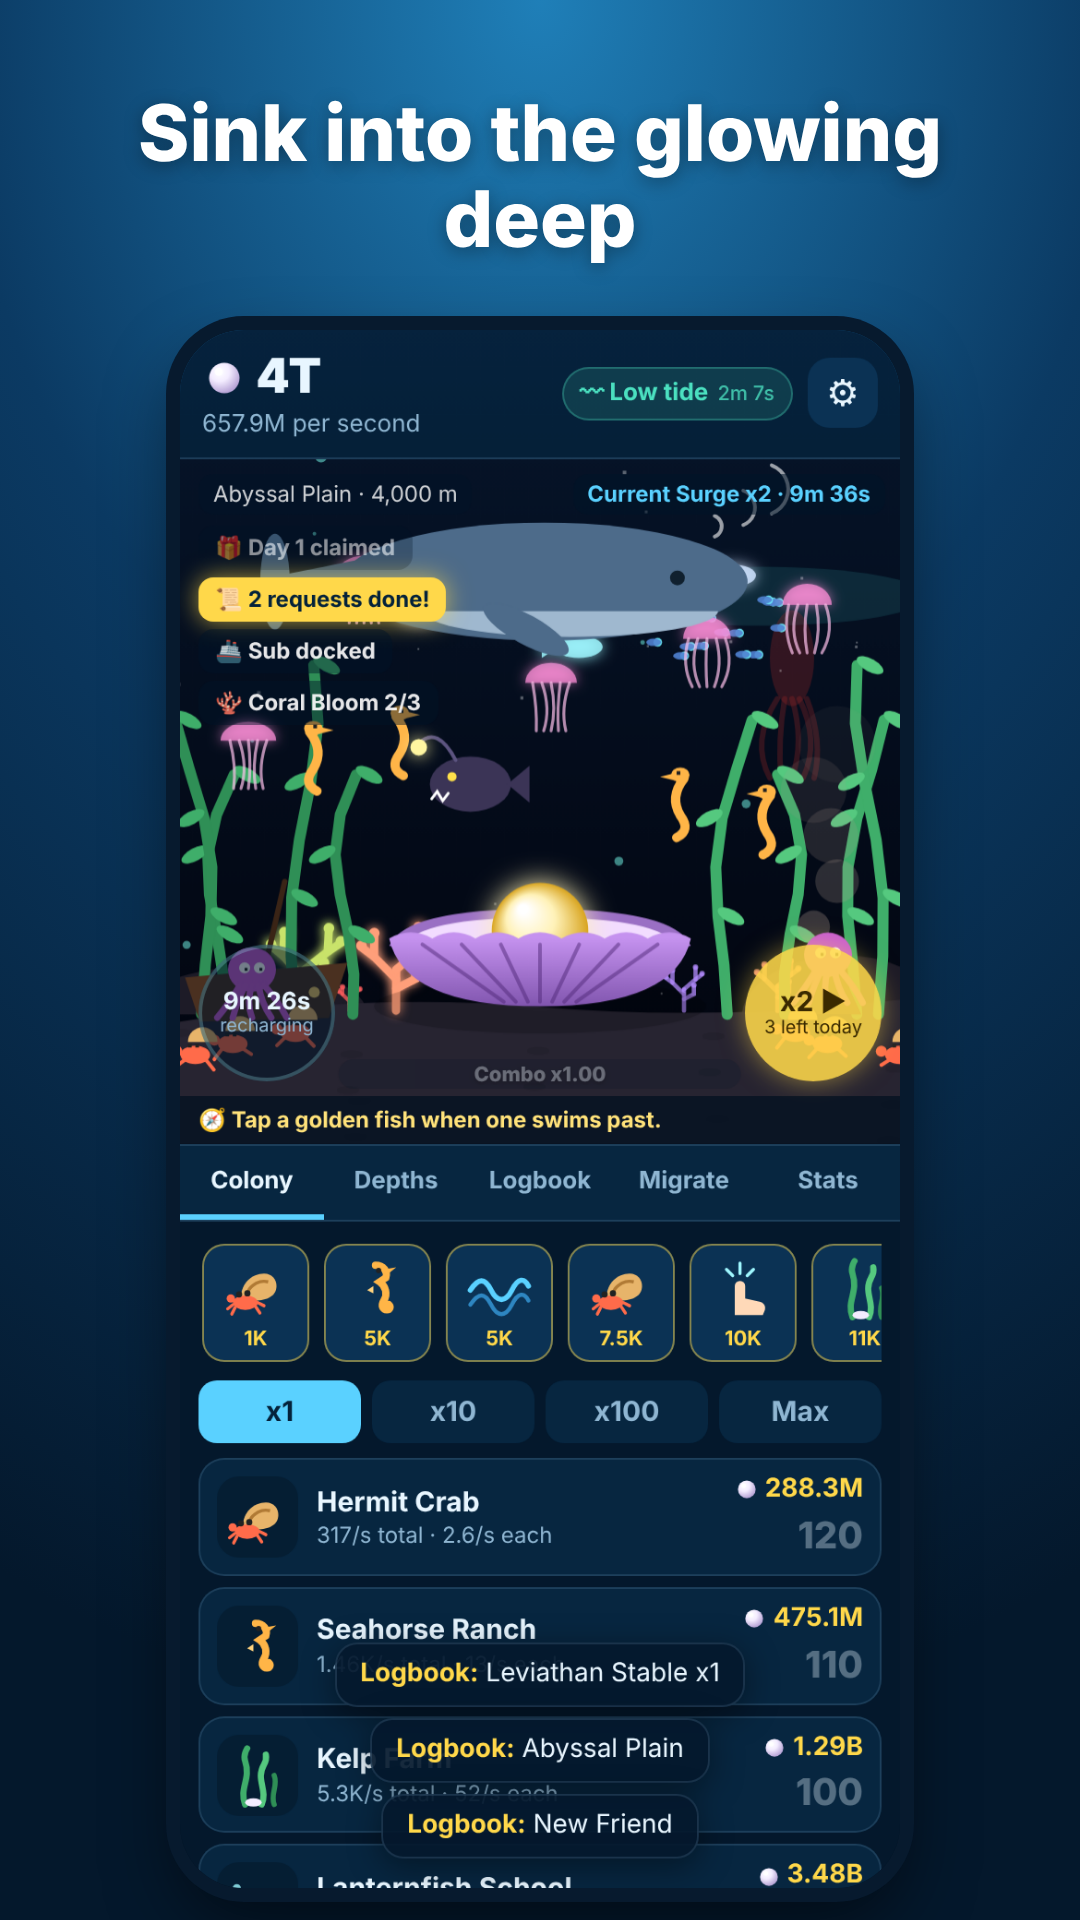
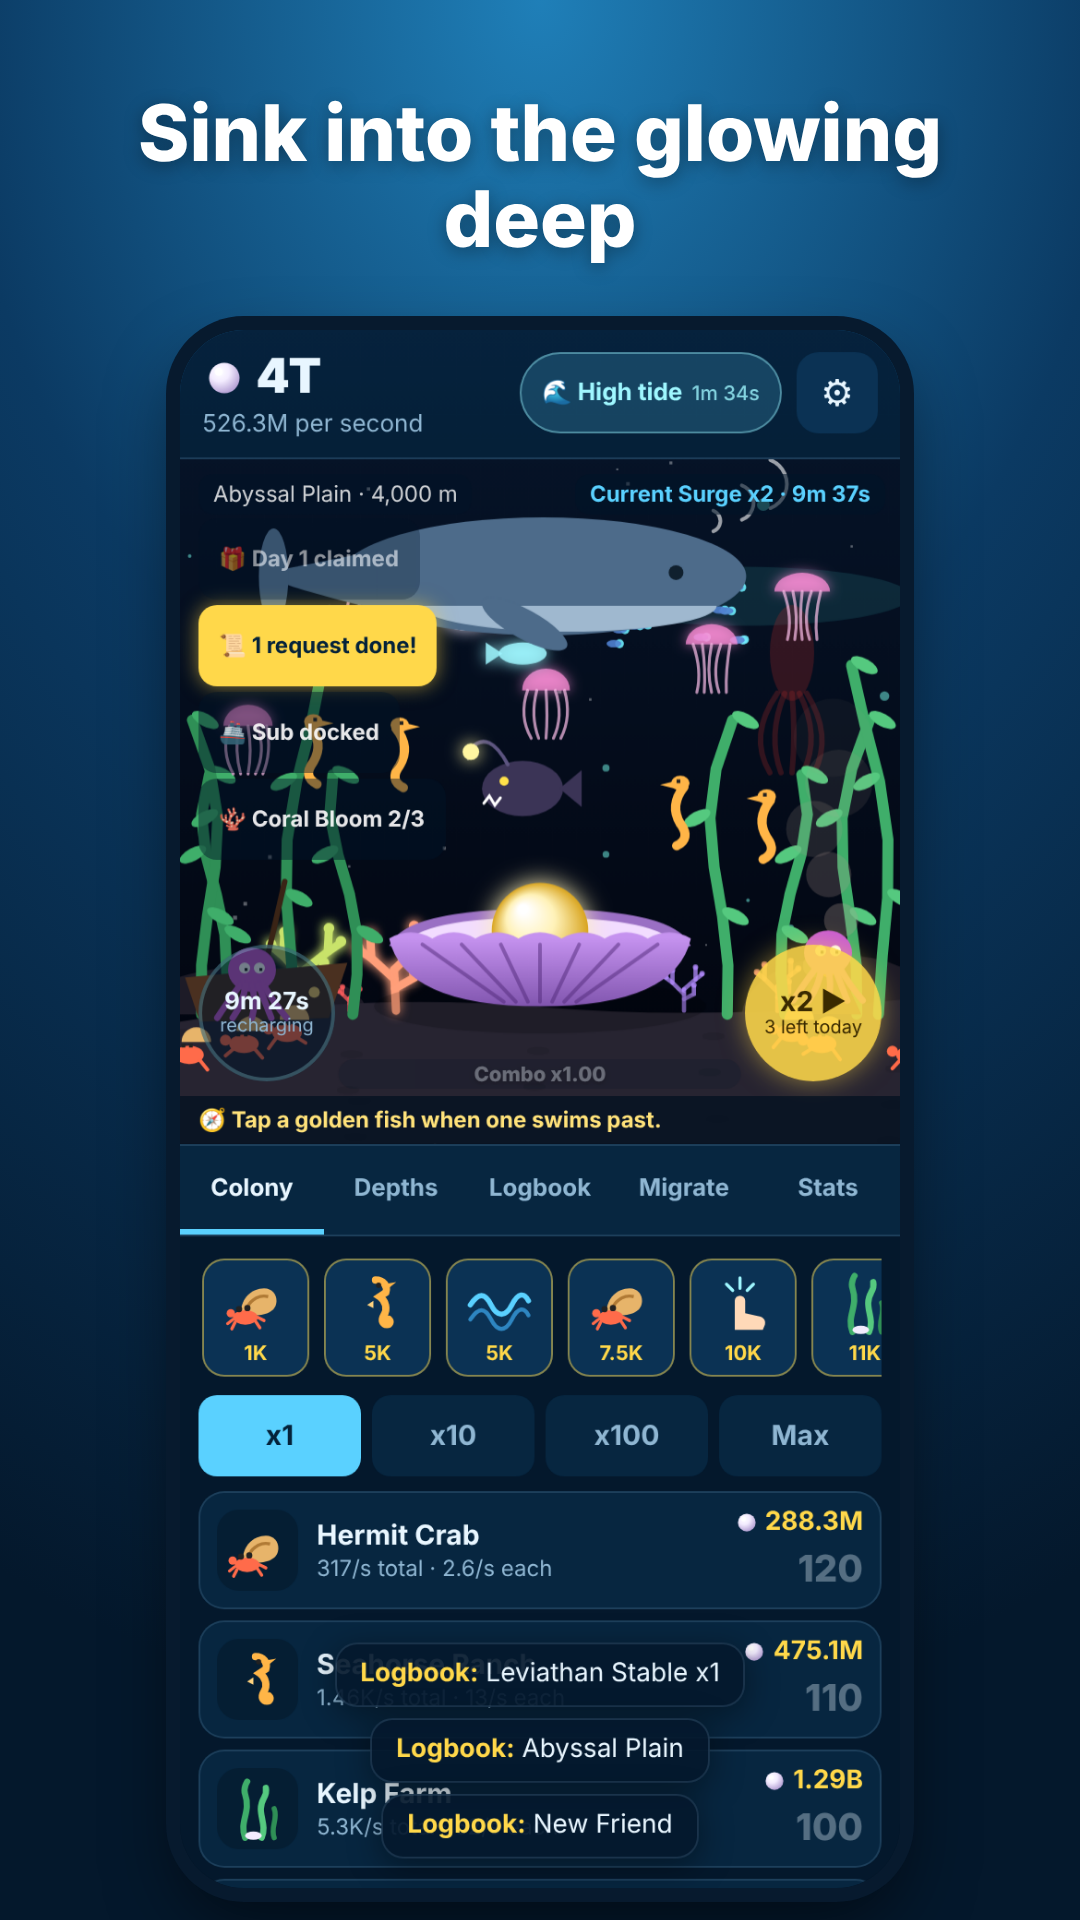
Fathom: tap target pass and small-screen layout audit
Claude-Session: https://claude.ai/code/session_01X25pDiwaU5FyRJ8RMUXnpT

diff --git a/deep-sea/www/styles.css b/deep-sea/www/styles.css
@@ -28,19 +28,22 @@ svg { display: block; width: 100%; height: 100%; }
 .pearls { display: flex; align-items: center; gap: 6px; font-size: 26px; font-weight: 800; font-variant-numeric: tabular-nums; }
 .pearls .ico { width: 24px; height: 24px; flex: none; }
 .pps { color: var(--muted); font-size: 13px; }
-.chip { padding: 6px 10px; border-radius: 999px; font-size: 13px; font-weight: 700; white-space: nowrap; }
+.chip { min-height: 44px; padding: 6px 12px; border-radius: 999px; font-size: 13px; font-weight: 700; white-space: nowrap; }
 .chip small { font-weight: 500; opacity: 0.8; margin-left: 2px; }
 .chip.high { background: rgba(90, 209, 255, 0.2); color: #9ff7ff; box-shadow: inset 0 0 0 1px rgba(159, 247, 255, 0.4); }
 .chip.low { background: rgba(75, 224, 192, 0.14); color: var(--good); box-shadow: inset 0 0 0 1px rgba(75, 224, 192, 0.3); }
-.icon-btn { width: 38px; height: 38px; border-radius: 12px; background: var(--panel-2); font-size: 20px; }
+.icon-btn { width: 44px; height: 44px; border-radius: 12px; background: var(--panel-2); font-size: 20px; }
 
 #stage { position: relative; flex: 0 0 44%; min-height: 250px; overflow: hidden; }
 #scene { width: 100%; height: 100%; display: block; touch-action: none; }
 #depth-tag { position: absolute; left: 10px; top: 8px; font-size: 12px; color: rgba(255, 255, 255, 0.8); background: rgba(0, 20, 40, 0.35); padding: 3px 8px; border-radius: 8px; pointer-events: none; }
-#gift { position: absolute; left: 10px; top: 36px; font-size: 12px; font-weight: 700; color: rgba(255, 255, 255, 0.9); background: rgba(0, 20, 40, 0.45); padding: 4px 9px; border-radius: 8px; }
+/* Stage chips stack in one column, each tall enough to tap. */
+#chips { position: absolute; left: 10px; top: 32px; display: flex; flex-direction: column; align-items: flex-start; gap: 3px; pointer-events: none; }
+#chips button { pointer-events: auto; min-height: 44px; display: inline-flex; align-items: center; font-size: 12px; font-weight: 700; color: rgba(255, 255, 255, 0.9); background: rgba(0, 20, 40, 0.45); padding: 4px 11px; border-radius: 10px; }
+#chips button[hidden] { display: none; }
 #gift.ready { color: #04223a; background: var(--gold); box-shadow: 0 0 14px rgba(255, 216, 74, 0.7); animation: glow 1.2s ease-in-out infinite alternate; }
 #gift.done { opacity: 0.6; }
-#requests { position: absolute; left: 10px; top: 64px; font-size: 12px; font-weight: 700; color: rgba(255, 255, 255, 0.9); background: rgba(0, 20, 40, 0.45); padding: 4px 9px; border-radius: 8px; }
+
 #requests.ready { color: #04223a; background: var(--gold); box-shadow: 0 0 14px rgba(255, 216, 74, 0.7); animation: glow 1.2s ease-in-out infinite alternate; }
 .reqs { display: flex; flex-direction: column; gap: 8px; margin: 6px 0 4px; }
 .req { display: flex; align-items: center; gap: 10px; background: rgba(255, 255, 255, 0.06); border-radius: 10px; padding: 8px 10px; }
@@ -89,7 +92,7 @@ svg { display: block; width: 100%; height: 100%; }
 #ticker { position: absolute; left: 0; right: 0; bottom: 0; padding: 5px 10px; font-size: 12px; color: rgba(232, 246, 255, 0.85); background: rgba(0, 16, 32, 0.5); white-space: nowrap; overflow: hidden; text-overflow: ellipsis; pointer-events: none; }
 
 #tabs { display: flex; background: var(--panel); border-top: 1px solid var(--line); border-bottom: 1px solid var(--line); }
-#tabs button { flex: 1; padding: 11px 2px; font-size: 13px; font-weight: 700; color: var(--muted); position: relative; }
+#tabs button { flex: 1; min-height: 48px; padding: 12px 2px; font-size: 13px; font-weight: 700; color: var(--muted); position: relative; }
 #tabs button.on { color: var(--text); box-shadow: inset 0 -3px 0 var(--accent); }
 #tabs button.locked { opacity: 0.45; }
 .dot { position: absolute; top: 7px; right: 10%; width: 8px; height: 8px; border-radius: 50%; background: var(--gold); }
@@ -108,7 +111,7 @@ h3 { margin: 18px 4px 8px; font-size: 15px; }
 .up.poor .uc { color: var(--muted); }
 
 .buyrow { display: flex; gap: 6px; margin-bottom: 8px; }
-.buyrow button { flex: 1; padding: 7px 0; border-radius: 10px; background: var(--panel); font-weight: 700; color: var(--muted); }
+.buyrow button { flex: 1; min-height: 44px; padding: 7px 0; border-radius: 10px; background: var(--panel); font-weight: 700; color: var(--muted); }
 .buyrow button.on { background: var(--accent); color: #04223a; }
 
 .gens { display: flex; flex-direction: column; gap: 6px; }
@@ -137,13 +140,13 @@ h3 { margin: 18px 4px 8px; font-size: 15px; }
 .zg { color: #bfe3ff !important; margin-top: 2px; }
 .tick { color: var(--good); font-size: 20px; font-weight: 800; padding: 0 8px; }
 
-.act { padding: 9px 14px; border-radius: 12px; background: var(--accent); color: #04223a; font-weight: 800; line-height: 1.15; text-align: center; }
+.act { min-height: 44px; padding: 9px 14px; border-radius: 12px; background: var(--accent); color: #04223a; font-weight: 800; line-height: 1.15; text-align: center; }
 .act span { font-size: 12px; }
 .act.poor { background: var(--panel-2); color: var(--muted); }
 .act.ghost { background: transparent; color: var(--muted); box-shadow: inset 0 0 0 1px var(--line); }
 .act.big { width: 100%; padding: 13px; font-size: 16px; margin-top: 10px; }
 
-.logbook { display: grid; grid-template-columns: repeat(auto-fill, minmax(40px, 1fr)); gap: 6px; }
+.logbook { display: grid; grid-template-columns: repeat(auto-fill, minmax(46px, 1fr)); gap: 6px; }
 .ach { aspect-ratio: 1; border-radius: 10px; background: var(--panel); color: var(--muted); font-size: 20px; box-shadow: inset 0 0 0 1px var(--line); }
 .ach.got { background: var(--panel-2); box-shadow: inset 0 0 0 1px rgba(255, 216, 74, 0.5); }
 
@@ -194,7 +197,7 @@ h3 { margin: 18px 4px 8px; font-size: 15px; }
 .rdot { width: 22px; height: 22px; flex: none; border-radius: 50%; background: var(--c); box-shadow: 0 0 12px var(--c); opacity: 0.35; }
 .rare.got .rdot { opacity: 1; }
 .boost.spawn { color: #ffbfdc; }
-#subchip { position: absolute; left: 10px; top: 92px; font-size: 12px; font-weight: 700; color: rgba(255, 255, 255, 0.9); background: rgba(0, 20, 40, 0.45); padding: 4px 9px; border-radius: 8px; }
+
 #subchip.ready { color: #04223a; background: var(--gold); box-shadow: 0 0 14px rgba(255, 216, 74, 0.7); animation: glow 1.2s ease-in-out infinite alternate; }
 .subcard { display: flex; flex-direction: column; gap: 6px; padding: 12px; margin-bottom: 12px; border-radius: 14px; background: var(--panel); box-shadow: inset 0 0 0 1px var(--line); }
 .subcard > b { font-size: 15px; }
@@ -235,7 +238,7 @@ h3 .muted { color: var(--muted); font-weight: 600; }
 .relics span svg.coral { display: block; margin: auto; }
 
 /* Weekly ocean event */
-#eventchip { position: absolute; left: 10px; top: 120px; font-size: 12px; font-weight: 700; color: rgba(255, 255, 255, 0.9); background: rgba(0, 20, 40, 0.45); padding: 4px 9px; border-radius: 8px; }
+
 #eventchip.ready { color: #04223a; background: var(--gold); box-shadow: 0 0 14px rgba(255, 216, 74, 0.7); animation: glow 1.2s ease-in-out infinite alternate; }
 .req.got { opacity: .6; }
 .req.got .rw { color: #7cf5c6; font-weight: 800; }
@@ -245,3 +248,11 @@ h3 .muted { color: var(--muted); font-weight: 600; }
 .away div { display: flex; align-items: center; gap: 10px; background: rgba(255, 255, 255, 0.06); border-radius: 10px; padding: 7px 10px; font-size: 14px; }
 .away span { font-size: 18px; width: 22px; text-align: center; flex: none; }
 #ticker.guide { color: #ffe27a; font-weight: 700; background: rgba(0, 16, 32, 0.7); }
+
+/* Short phones: the chip column needs the left side, so the geyser stacks above the surge button. */
+@media (max-height: 740px) {
+  .geyser, #surge { width: 60px; height: 60px; bottom: 44px; }
+  .geyser { left: auto; right: 10px; bottom: 110px; }
+  .geyser b, #surge b { font-size: 12px; }
+  .geyser small, #surge small { font-size: 9px; }
+}

diff --git a/deep-sea/src/ui/app.ts b/deep-sea/src/ui/app.ts
@@ -109,10 +109,12 @@ class App {
       <section id="stage">
         <canvas id="scene"></canvas>
         <div id="depth-tag"></div>
-        <button id="gift" class="gift" aria-label="Daily Tide Gift"></button>
-        <button id="requests" class="requests" aria-label="Reef Requests"></button>
-        <button id="subchip" class="subchip" aria-label="Submarine" hidden></button>
-        <button id="eventchip" class="eventchip" aria-label="Weekly ocean event" hidden></button>
+        <div id="chips">
+          <button id="gift" class="gift" aria-label="Daily Tide Gift"></button>
+          <button id="requests" class="requests" aria-label="Reef Requests"></button>
+          <button id="subchip" class="subchip" aria-label="Submarine" hidden></button>
+          <button id="eventchip" class="eventchip" aria-label="Weekly ocean event" hidden></button>
+        </div>
         <button id="geyser" class="geyser" aria-label="Geyser" hidden></button>
         <button id="surge" class="surge" aria-label="Current Surge" hidden></button>
         <div id="boosts"></div>
@@ -260,8 +262,6 @@ class App {
     const ev = currentEvent(s);
     ec.hidden = !ev;
     if (ev) {
-      // Sits where the sub chip would be until the submarine unlocks.
-      ec.style.top = subUnlocked(s) ? '120px' : '92px';
       const ecHtml = eventClaimable(s) ? `${ev.icon} Event reward ready!`
         : s.event.claimed >= 3 ? `${ev.icon} ${ev.name.replace(' Week', '')} done` : `${ev.icon} ${ev.name.replace(' Week', '')} ${s.event.claimed}/3`;
       if (ec.innerHTML !== ecHtml) ec.innerHTML = ecHtml;

diff --git a/deep-sea/docs/DESIGN.md b/deep-sea/docs/DESIGN.md
@@ -386,3 +386,13 @@ Play's limit of 8 screenshots at 9:16, run 12's note that the listing still show
   description now mentions the garden, events and relics. No game change, so pacing is unchanged (1T at 89.8
   minutes).
 - **Next:** polish, with a pass over small-screen layout and tap targets.
+
+**Run 14 (Oct 22, evening).** Sources: Android's 48dp and Apple's 44pt minimum touch targets, store reviews of
+idle games that complain about "fat finger" misses on small phones and buttons hidden behind other buttons.
+- A new layout check (`npm run audit`) opens Fathom at 320x568, 360x640 and 390x844 and flags tap targets under
+  44px, overlapping stage buttons and sideways scrolling. It found 228 problems, including the stage chips at
+  24px tall and the event chip sitting on top of the geyser on small phones. **Built: a tap target pass.** The
+  stage chips now stack in one column at 44px each, tabs are 48px, and the buy-amount row, action buttons,
+  settings gear and tide chip are all at least 44px. On short phones the geyser moves above the surge button so
+  the clam stays clear. The check now reports no problems. Pacing is unchanged (1T at 89.8 minutes).
+- **Next:** a last pass over text contrast and readable font sizes, then the week two wrap-up.
